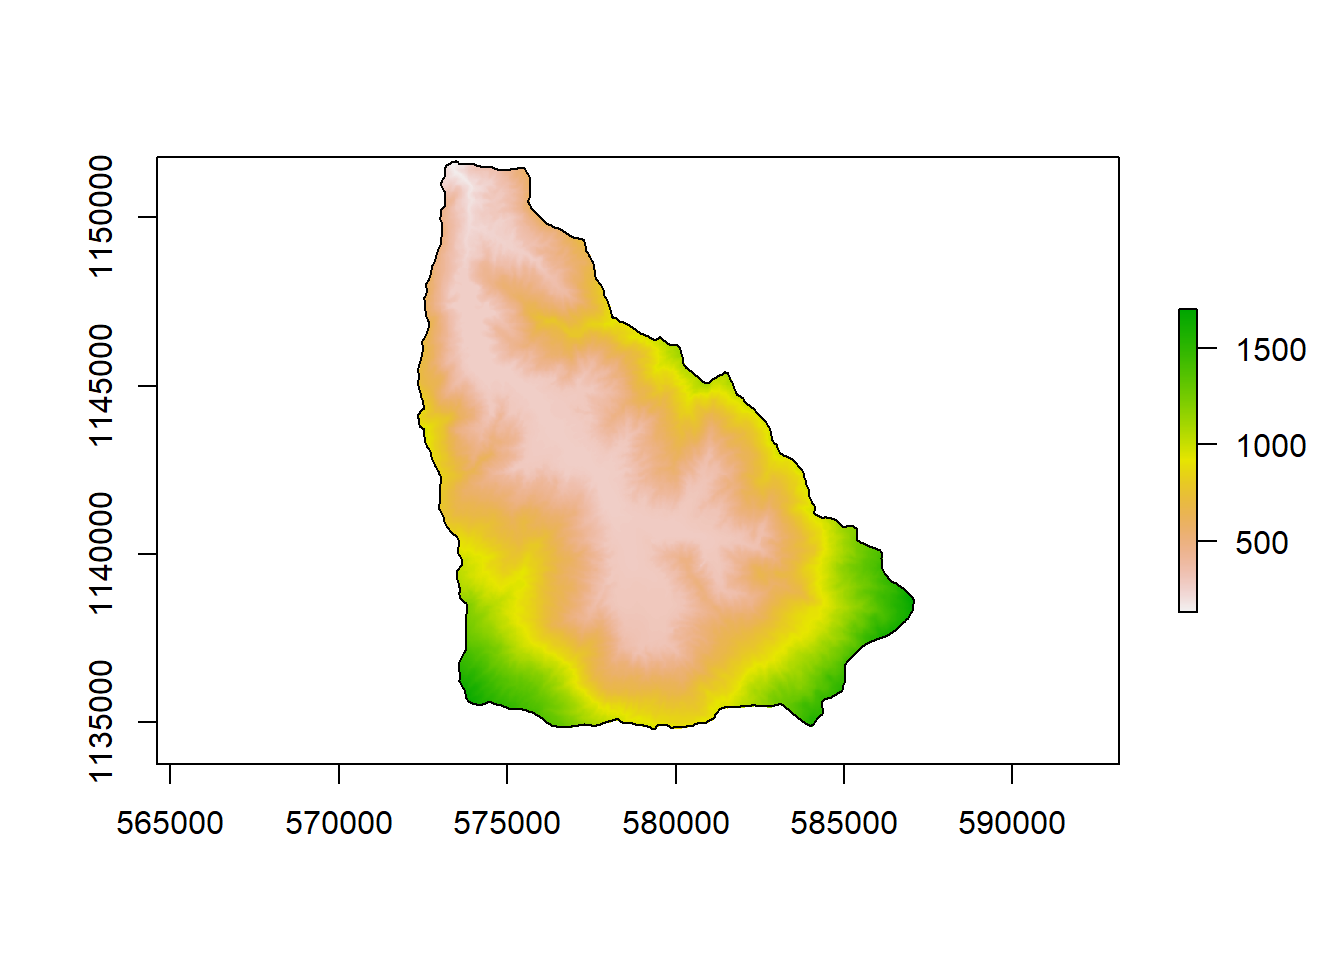
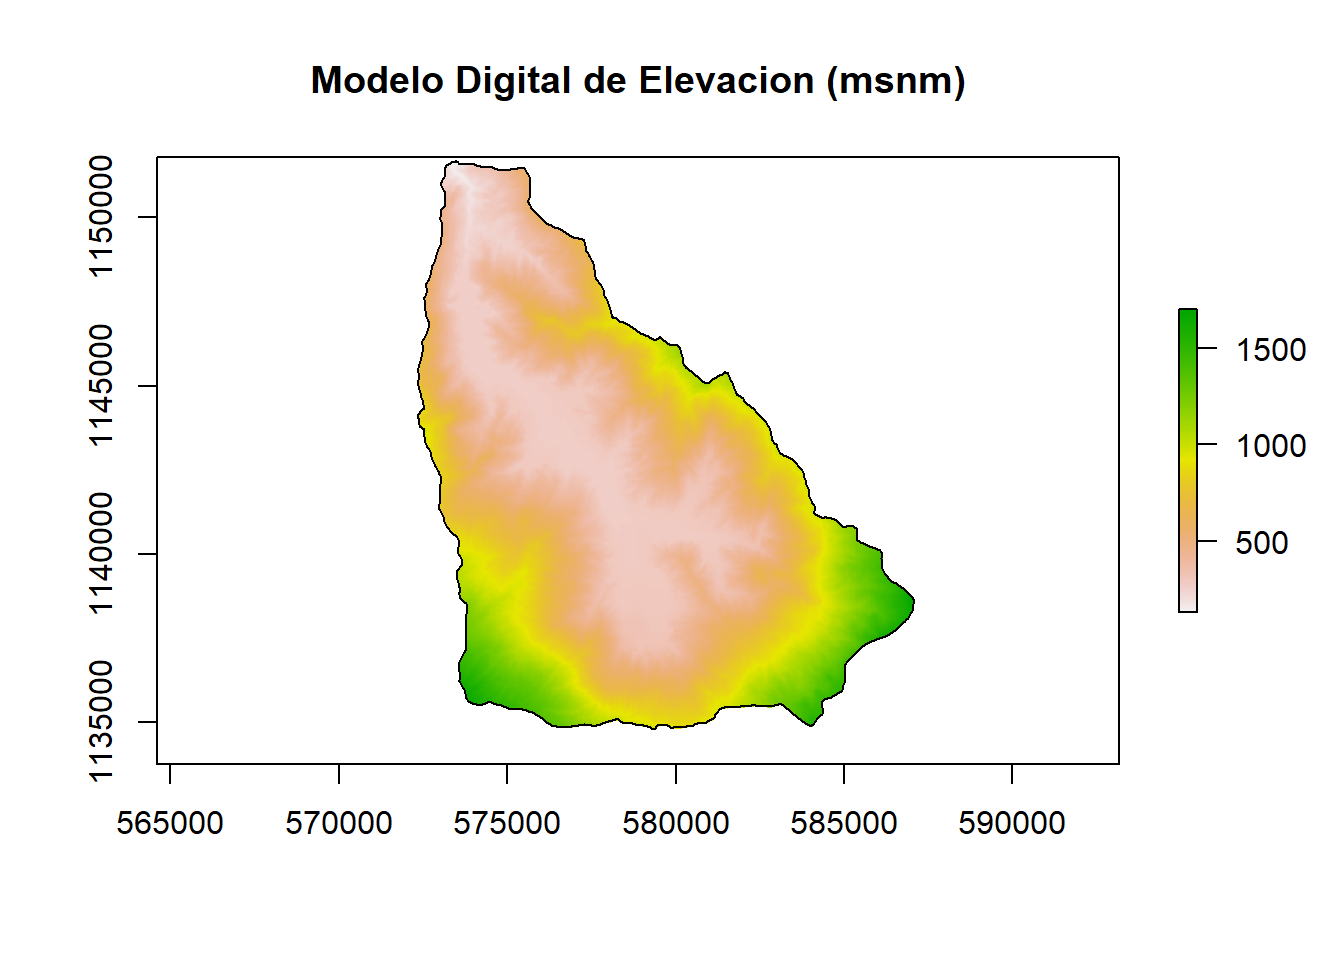
coloque los pendientes

Changed region(s): [[0.2188, 0.0625, 0.7188, 0.125]]

diff --git a/public/2020/03/14/locote-2/index.html b/public/2020/03/14/locote-2/index.html
@@ -98,28 +98,13 @@ perimetro &lt;- shapefile(&quot;cuenca1.shp&quot;)
 #Creamos un objeto de un raster:
 DEM &lt;- raster(&quot;MDE3.tif&quot;)
 #Ploteamos el modelo digital de elevacion y el perimetro:
-plot(DEM)
+plot(DEM, main=&quot;Modelo Digital de Elevacion (msnm)&quot;)
 lines(perimetro)</code></pre>
-<p><img src="/post/2020-03-14-locote-2_files/figure-html/unnamed-chunk-2-1.png" width="672" /></p>
-<pre><code>
-
-
-
-
-# Observamos el set de datos disponible en R:
-data()
-
-
-datos &lt;- Orange
-
-hist(Orange$age)
-
-names(datos)
-
-#Cambiamos el nombre del campo &quot;Tree&quot; por &quot;arboles&quot;:
-datos1 &lt;- rename(Orange, arboles = Tree)
-
-names(datos1)</code></pre>
+<p><img src="/post/2020-03-14-locote-2_files/figure-html/unnamed-chunk-2-1.png" width="672" /> ```</p>
+<p>Pendiente:</p>
+<p>Mostrar la proyeccion. Cambiar la proyeccion de canoa a regeven. Montar los puntos de suelos y ploteralo junto al dem y el perimetro. ver los datos de suelos (los primeros 6 registros) hacer un resumen de una caracteristica como pH.</p>
+<p>Cambiamos el nombre del campo “Tree” por “arboles”: datos1 &lt;- rename(Orange, arboles = Tree)</p>
+<p>names(datos1)</p>
 </div>
 </div>
 

diff --git a/content/post/2020-03-14-locote-2.html b/content/post/2020-03-14-locote-2.html
@@ -30,27 +30,12 @@ perimetro &lt;- shapefile(&quot;cuenca1.shp&quot;)
 #Creamos un objeto de un raster:
 DEM &lt;- raster(&quot;MDE3.tif&quot;)
 #Ploteamos el modelo digital de elevacion y el perimetro:
-plot(DEM)
+plot(DEM, main=&quot;Modelo Digital de Elevacion (msnm)&quot;)
 lines(perimetro)</code></pre>
-<p><img src="/post/2020-03-14-locote-2_files/figure-html/unnamed-chunk-2-1.png" width="672" /></p>
-<pre><code>
-
-
-
-
-# Observamos el set de datos disponible en R:
-data()
-
-
-datos &lt;- Orange
-
-hist(Orange$age)
-
-names(datos)
-
-#Cambiamos el nombre del campo &quot;Tree&quot; por &quot;arboles&quot;:
-datos1 &lt;- rename(Orange, arboles = Tree)
-
-names(datos1)</code></pre>
+<p><img src="/post/2020-03-14-locote-2_files/figure-html/unnamed-chunk-2-1.png" width="672" /> ```</p>
+<p>Pendiente:</p>
+<p>Mostrar la proyeccion. Cambiar la proyeccion de canoa a regeven. Montar los puntos de suelos y ploteralo junto al dem y el perimetro. ver los datos de suelos (los primeros 6 registros) hacer un resumen de una caracteristica como pH.</p>
+<p>Cambiamos el nombre del campo “Tree” por “arboles”: datos1 &lt;- rename(Orange, arboles = Tree)</p>
+<p>names(datos1)</p>
 </div>
 </div>
